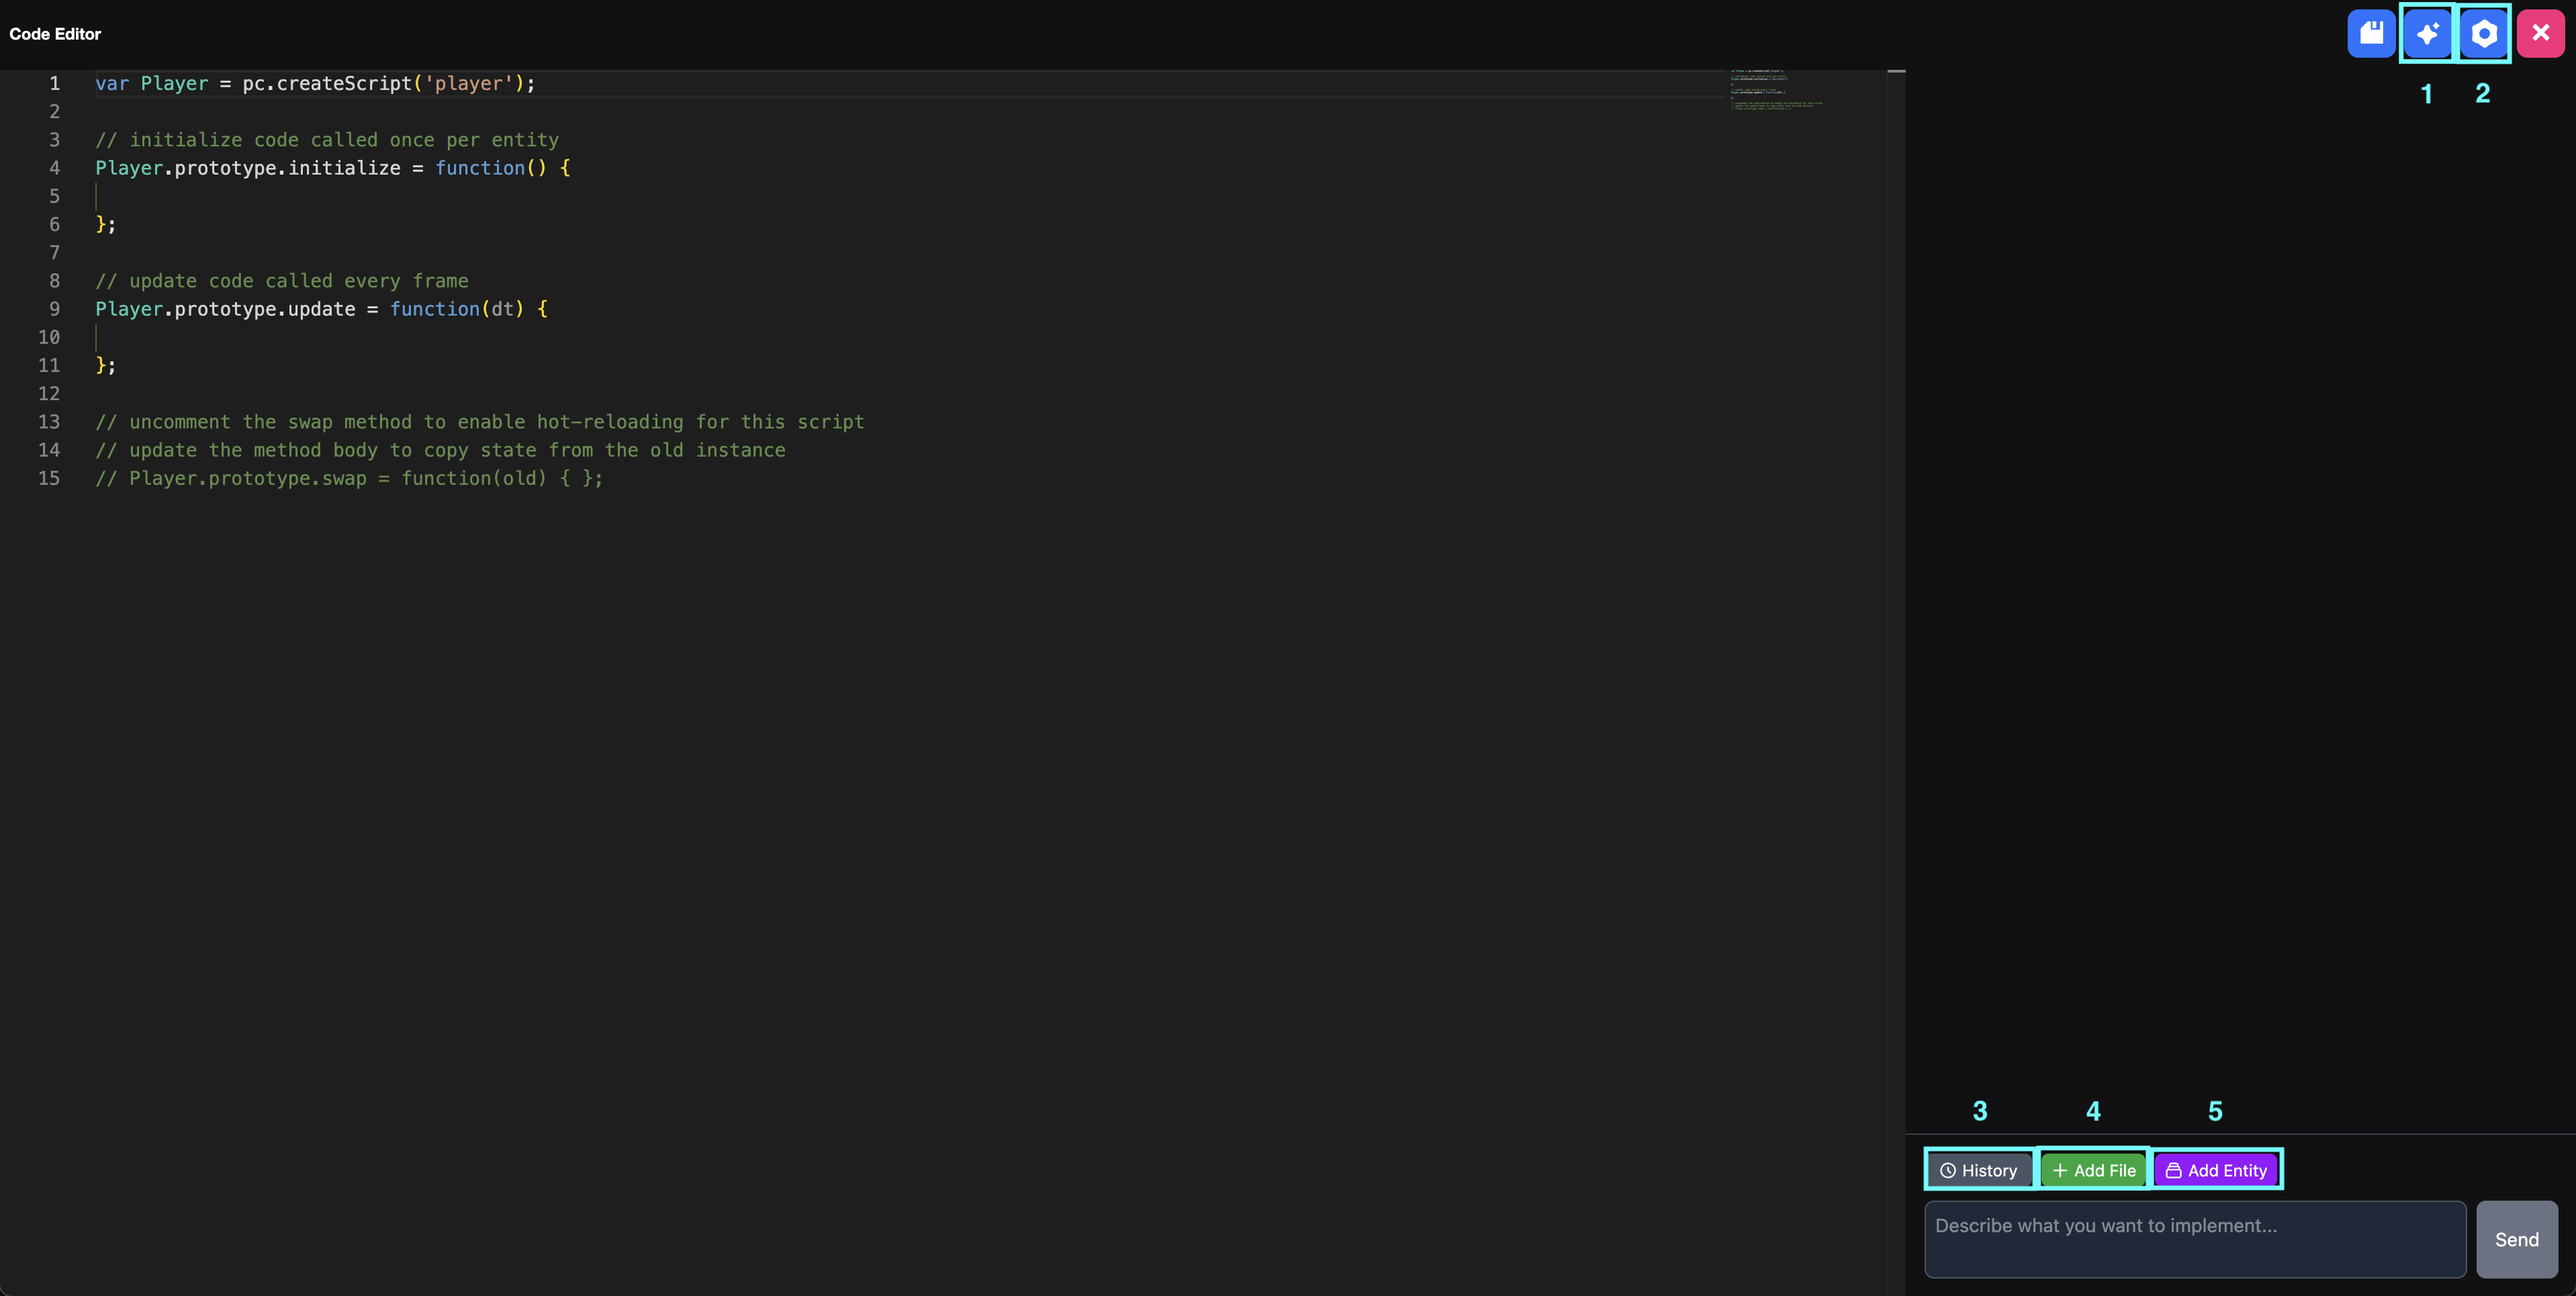
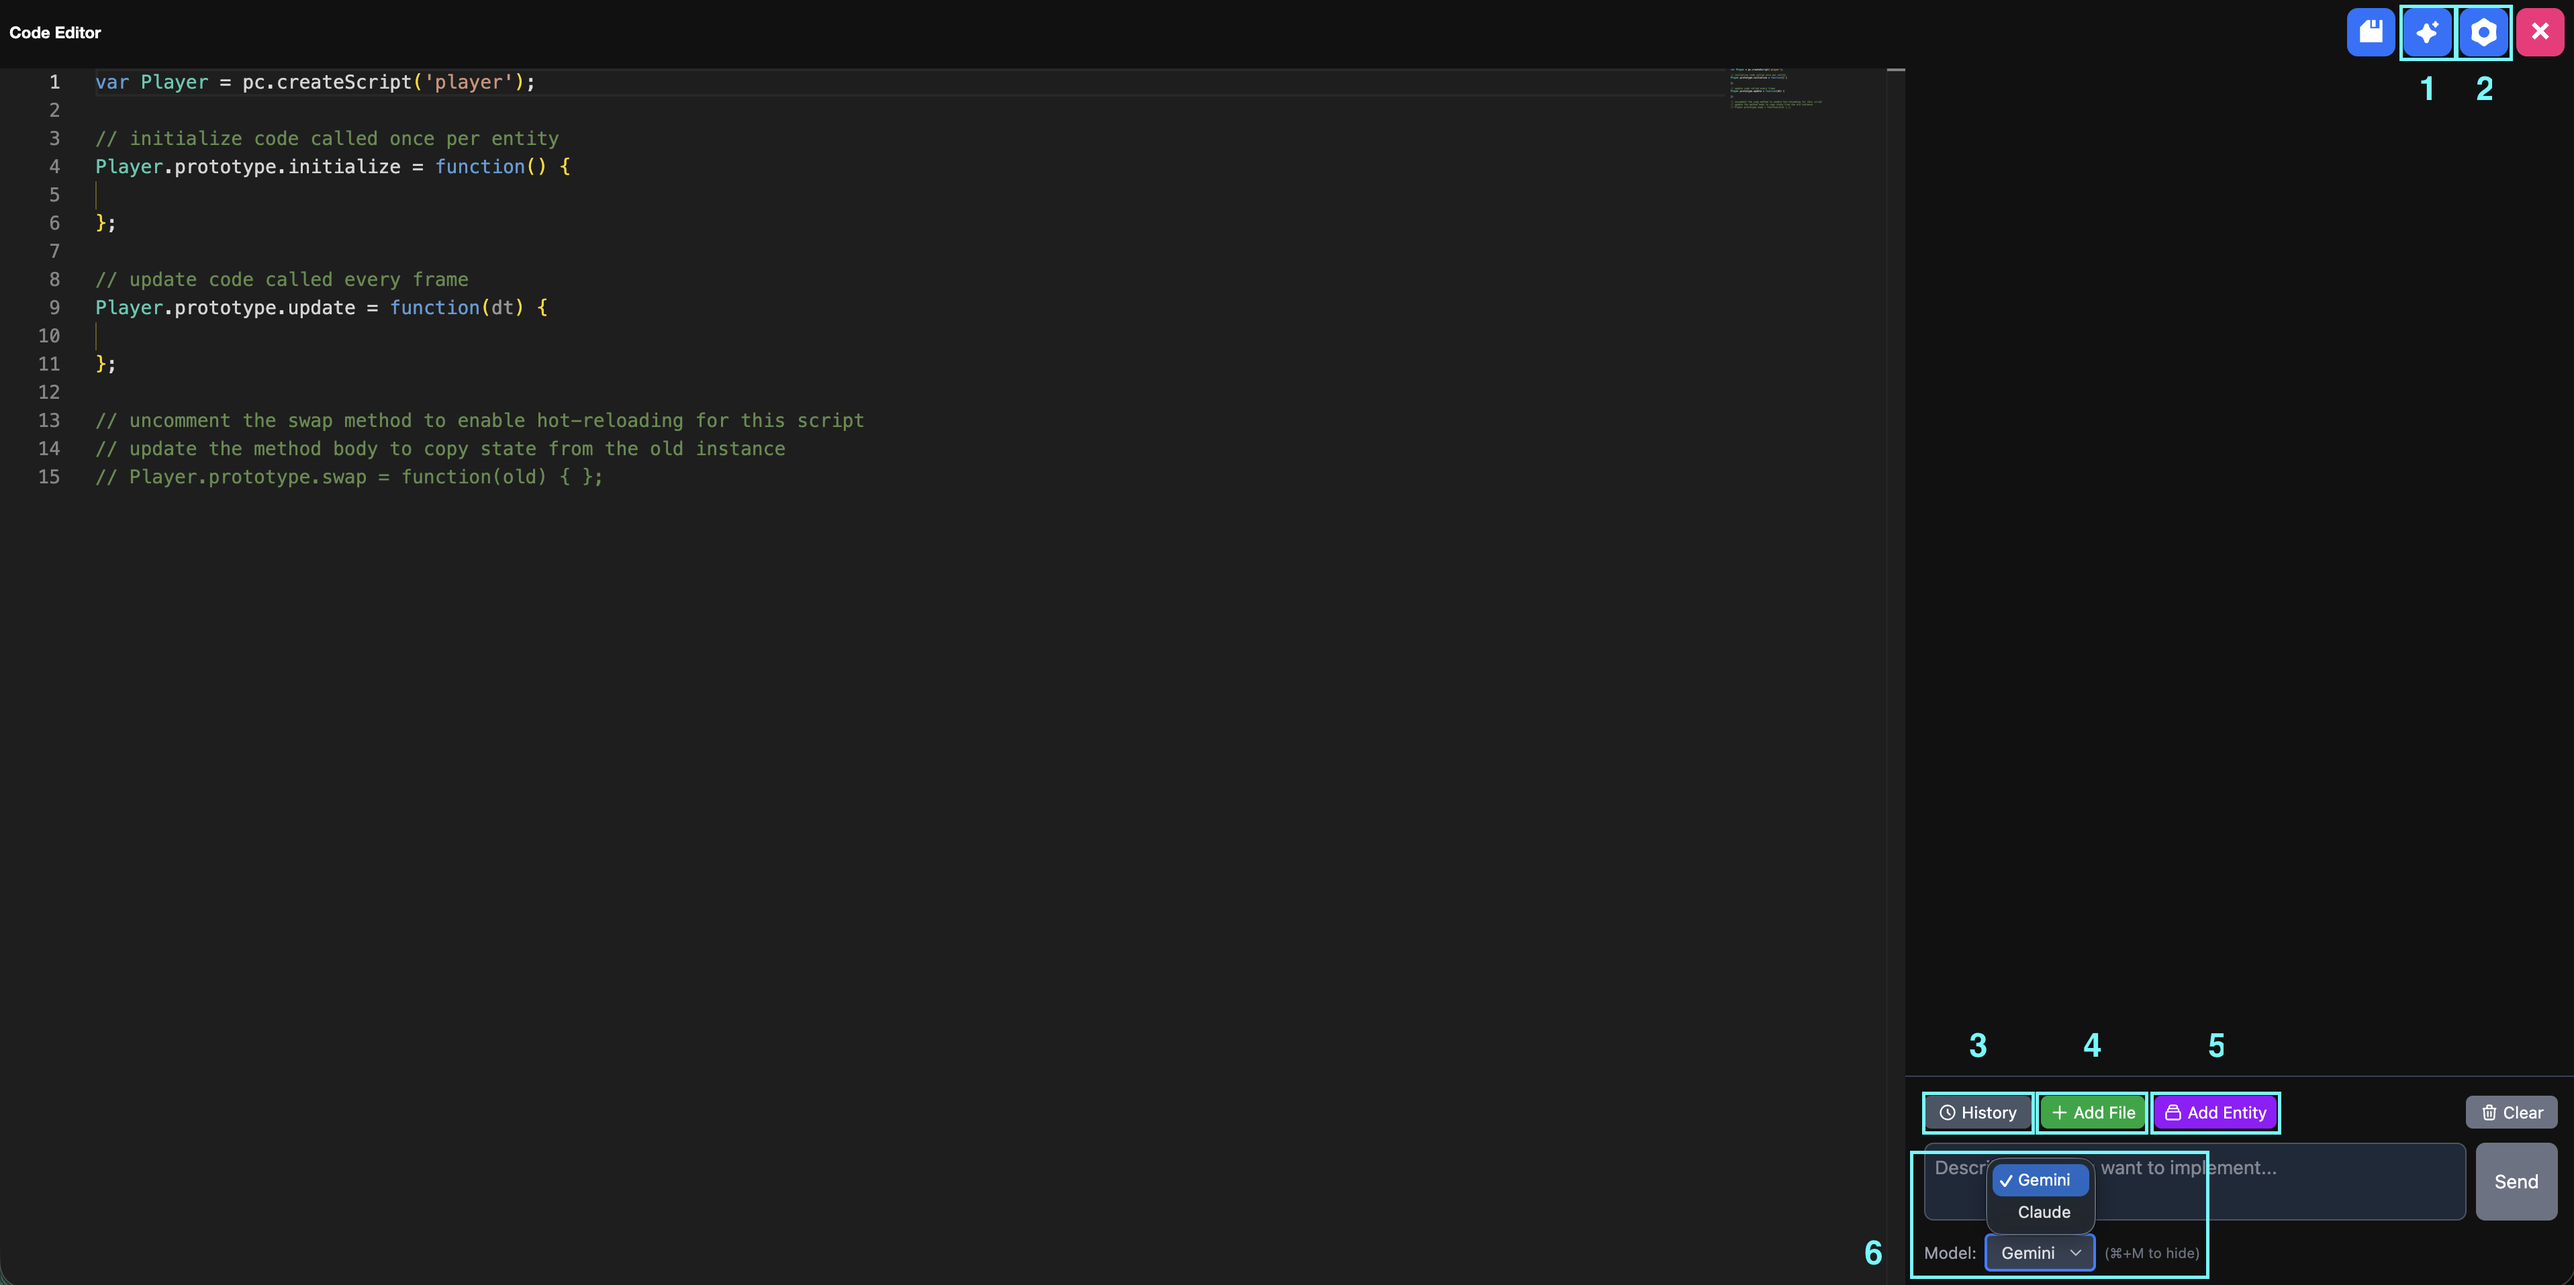
add: 코드 AI 모델 변경 내용 추가

diff --git a/i18n/en/docusaurus-plugin-content-docs/current/usage-guide/code-generation.md b/i18n/en/docusaurus-plugin-content-docs/current/usage-guide/code-generation.md
@@ -52,6 +52,13 @@ Add entities to reference.
 
 ![Code](/img/usage-guide/13_6.png)
 
+### 6. Model
+
+Press the shortcut **Command + M** (macOS) or **Alt + M** (Windows) to open or close the model selection window.  
+Here, you can change the AI model.
+
+![Code](/img/usage-guide/13_15.png)
+
 ## 2. Generating Code
 
 1. Enter the command you want to implement into the prompt window and click the **Send button**.  
